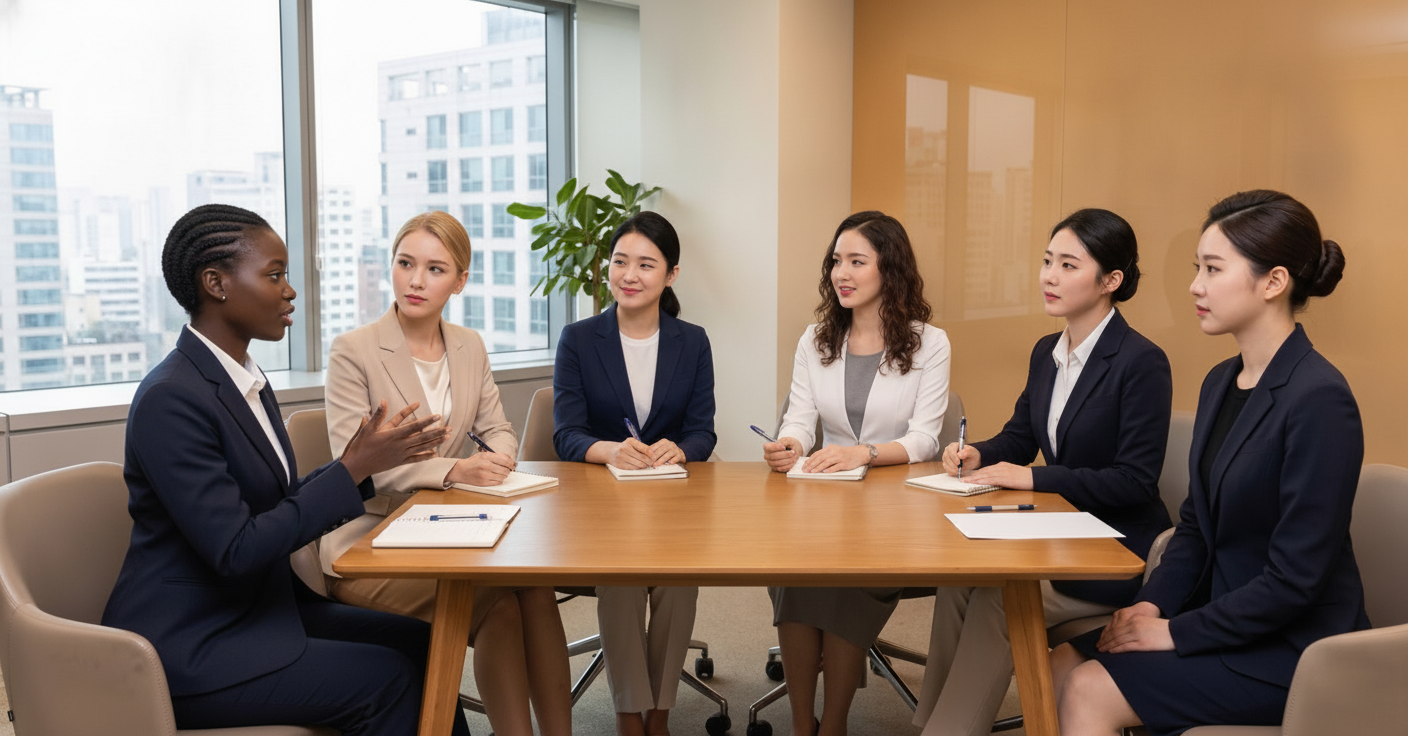
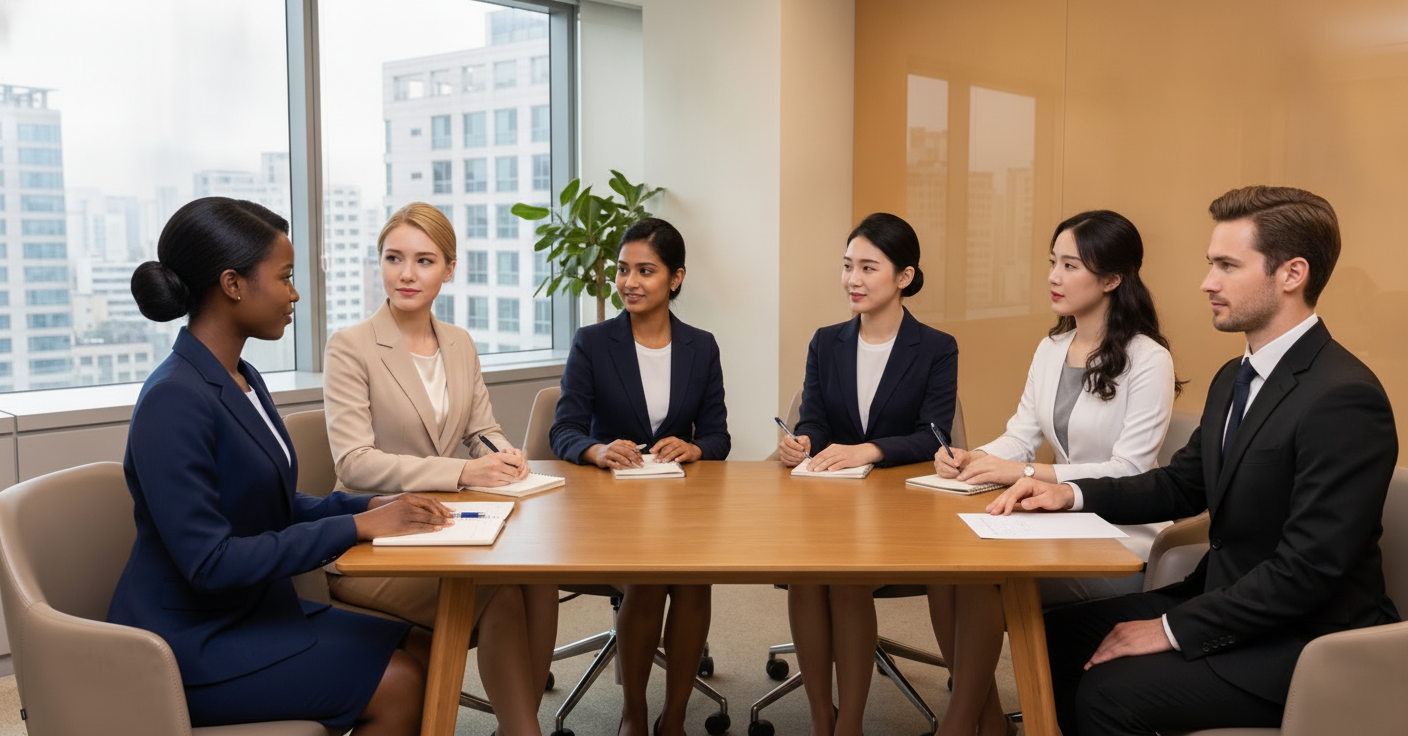
Step03 면접사진 축소(머리~어깨 보이게) + 디스커션 다인종화
- Step03 전/후 사진: object-fit cover→contain, 확대/스케일 제거 → 얼굴만 크게 나오던 것 개선, 어깨까지 보이는 면접사진 프레임으로. Step02와 크기감 맞춤.
- 디스커션: 흑인 1명만이 아니라 흑인(단정한 낮은 번)·금발 백인·인도계·동양인·라틴계 + 남자 1명으로 다인종 구성 재생성. 캐시버스트 v2.

diff --git a/practice-foreign-en.html b/practice-foreign-en.html
@@ -66,9 +66,9 @@ section{padding:60px 5%;}
 /* before/after split (photo) */
 .vis-ba{height:300px;margin:-24px -22px 14px;overflow:hidden;display:flex;position:relative;background:#fff;border-bottom:1.5px solid var(--gold-pale);}
 .vis-ba .mk-half{width:50%;height:100%;overflow:hidden;position:relative;}
-.vis-ba .mk-half img{width:100%;height:100%;object-fit:cover;display:block;}
-.vis-ba .mk-half:nth-child(1) img{object-position:center 20%;transform:scale(0.92);transform-origin:center 22%;}
-.vis-ba .mk-half:nth-child(2) img{object-position:center 26%;transform:scale(0.92);transform-origin:center 26%;}
+.vis-ba .mk-half img{width:100%;height:100%;object-fit:contain;object-position:center;display:block;}
+.vis-ba .mk-half:nth-child(1) img{object-position:center;}
+.vis-ba .mk-half:nth-child(2) img{object-position:center;}
 .vis-ba .mk-div{position:absolute;top:0;bottom:0;left:50%;width:2px;background:#fff;box-shadow:0 0 6px rgba(0,0,0,.4);}
 .vis-ba .mk-lab{position:absolute;top:10px;font-size:0.58rem;font-weight:800;letter-spacing:.05em;color:#fff;background:rgba(0,0,0,0.5);padding:2px 8px;border-radius:8px;}
 .vis-ba .mk-lab.b{left:10px;}.vis-ba .mk-lab.a{right:10px;}
@@ -269,7 +269,7 @@ footer{padding:50px 5%;background:var(--navy);color:rgba(255,255,255,0.6);text-a
   </a>
 
   <a class="hub-card" href="discussion-hub-en.html">
-    <div class="hub-vis"><img class="fit" src="images/discussion-diverse.png" alt="Group discussion"></div>
+    <div class="hub-vis"><img class="fit" src="images/discussion-diverse.png?v=2" alt="Group discussion"></div>
     <div class="hub-num">Step 06</div>
     <div class="hub-title">Discussion</div>
     <div class="hub-desc">Emirates Round 1 and Round 2, Singapore Airlines debate — every discussion format, airline by airline.</div>
